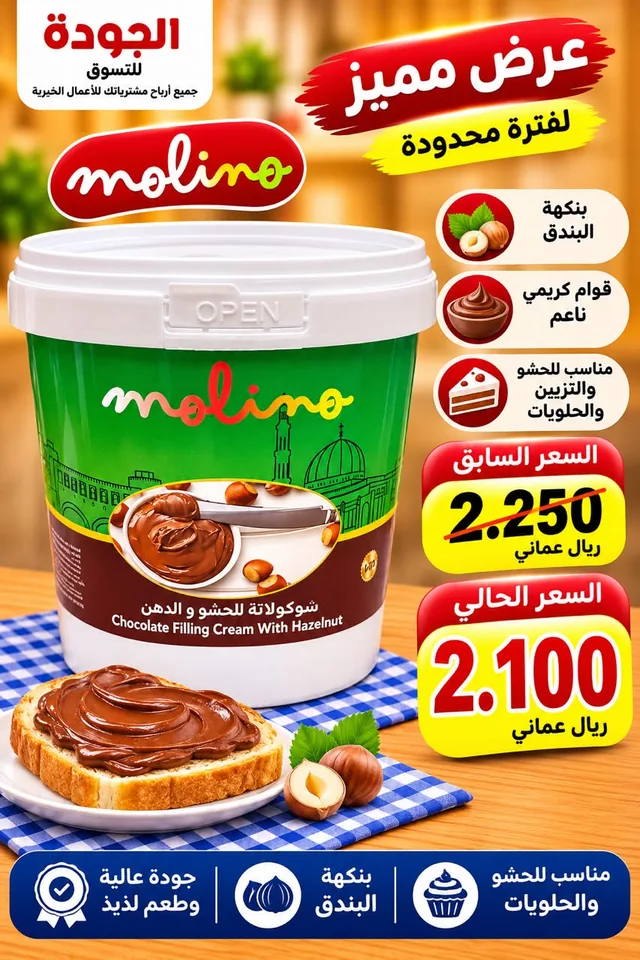
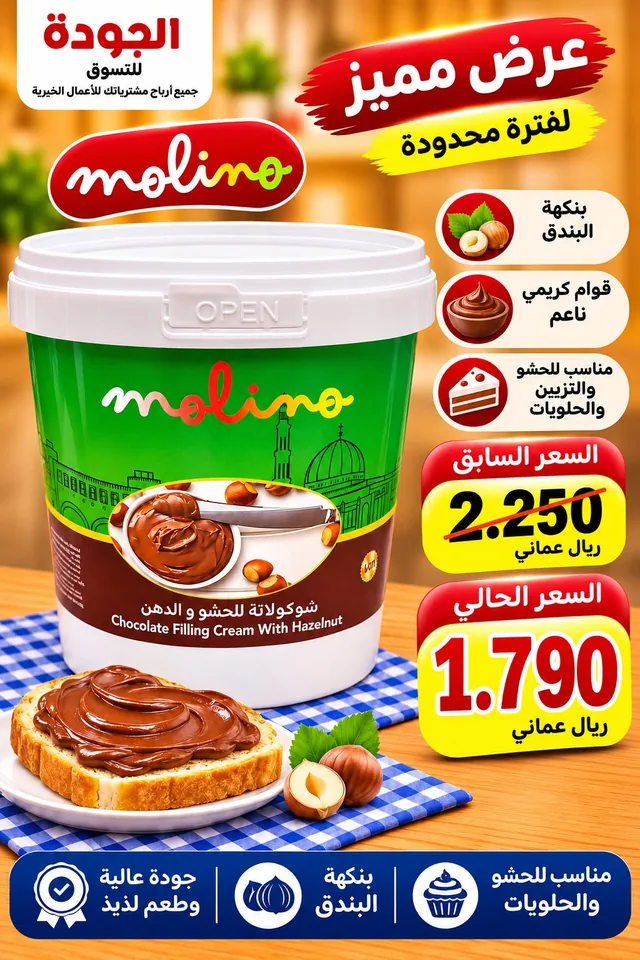
Add 4 new offers (Fancy Sweets, white hazelnut sauce, compound chocolate, Bisco sauce); Molino now 1.790; up to 29%
Claude-Session: https://claude.ai/code/session_01ExWg5wMeSN9mvm3HcH4uGR

diff --git a/ad/index.html b/ad/index.html
@@ -3,22 +3,22 @@
 <head>
 <meta charset="utf-8">
 <meta name="viewport" content="width=device-width,initial-scale=1,viewport-fit=cover">
-<meta name="description" content="عروض مركز الجودة للتسوق في إبراء حتى ٣٠ نوفمبر · خصومات تصل إلى ٢٨٪ · التوصيل 91441292">
+<meta name="description" content="عروض مركز الجودة للتسوق في إبراء حتى ٣٠ نوفمبر · خصومات تصل إلى ٢٩٪ · التوصيل 91441292">
 <meta property="og:type" content="website">
 <meta property="og:site_name" content="الجودة للتسوق">
-<meta property="og:title" content="عروض الجودة · خصومات تصل إلى ٢٨٪ حتى ٣٠ نوفمبر">
+<meta property="og:title" content="عروض الجودة · خصومات تصل إلى ٢٩٪ حتى ٣٠ نوفمبر">
 <meta property="og:description" content="افتح الإعلان وشاهد الوقت المتبقي على نهاية العروض">
 <meta property="og:url" content="https://aljumanfood-source.github.io/jawdamarket/ad/">
-<meta property="og:image" content="https://aljumanfood-source.github.io/jawdamarket/og-2.jpg">
-<meta property="og:image:secure_url" content="https://aljumanfood-source.github.io/jawdamarket/og-2.jpg">
+<meta property="og:image" content="https://aljumanfood-source.github.io/jawdamarket/og-3.jpg">
+<meta property="og:image:secure_url" content="https://aljumanfood-source.github.io/jawdamarket/og-3.jpg">
 <meta property="og:image:type" content="image/jpeg">
-<meta property="og:image:alt" content="عروض الجودة · خصومات تصل إلى ٢٨٪">
+<meta property="og:image:alt" content="عروض الجودة · خصومات تصل إلى ٢٩٪">
 <meta property="og:locale" content="ar_AR">
 <meta property="og:image:width" content="1200">
 <meta property="og:image:height" content="630">
 <meta name="twitter:card" content="summary_large_image">
-<meta name="twitter:image" content="https://aljumanfood-source.github.io/jawdamarket/og-2.jpg">
-<link rel="image_src" href="https://aljumanfood-source.github.io/jawdamarket/og-2.jpg">
+<meta name="twitter:image" content="https://aljumanfood-source.github.io/jawdamarket/og-3.jpg">
+<link rel="image_src" href="https://aljumanfood-source.github.io/jawdamarket/og-3.jpg">
 <meta name="theme-color" content="#8f0718">
 <link rel="icon" href="../img/logo.webp">
 <style>body{margin:0}[hidden]{display:none!important}img{max-width:100%}:root{padding-top:env(safe-area-inset-top,0px);padding-bottom:env(safe-area-inset-bottom,0px)}.poster{cursor:default}.poster:active{transform:none}
@@ -206,14 +206,14 @@ footer{text-align:center;color:var(--muted);font-size:13px;padding-block:6px 20p
 <!-- LANDING / POSTER -->
 <section class="landing" id="cover">
   <div class="landing-in gutter">
-    <div class="ticker" id="ticker"><span class="ticker-l">عروض الجودة حتى ٣٠ نوفمبر</span><span class="track" aria-hidden="true"><img src="../img/t/gqh9105.webp" alt="" width="86" height="129"><img src="../img/t/suroor.webp" alt="" width="86" height="129"><img src="../img/t/gqh9106.webp" alt="" width="86" height="129"><img src="../img/t/khamail.webp" alt="" width="86" height="129"><img src="../img/t/gfh28547.webp" alt="" width="86" height="129"><img src="../img/t/molino.webp" alt="" width="86" height="129"><img src="../img/t/softener.webp" alt="" width="86" height="129"><img src="../img/t/salim.webp" alt="" width="86" height="129"><img src="../img/t/moni.webp" alt="" width="86" height="129"><img src="../img/t/zaydis.webp" alt="" width="86" height="129"><img src="../img/t/diwani.webp" alt="" width="86" height="129"><img src="../img/t/winix.webp" alt="" width="86" height="129"><img src="../img/t/lucky.webp" alt="" width="86" height="129"><img src="../img/t/safwa.webp" alt="" width="86" height="129"><img src="../img/t/shams.webp" alt="" width="86" height="129"><img src="../img/t/anabi.webp" alt="" width="86" height="129"><img src="../img/t/marvel.webp" alt="" width="86" height="129"><img src="../img/t/dettol.webp" alt="" width="86" height="129"><img src="../img/t/rabea1l.webp" alt="" width="86" height="129"><img src="../img/t/rabea.webp" alt="" width="86" height="129"><img src="../img/t/gqh9105.webp" alt="" width="86" height="129"><img src="../img/t/suroor.webp" alt="" width="86" height="129"><img src="../img/t/gqh9106.webp" alt="" width="86" height="129"><img src="../img/t/khamail.webp" alt="" width="86" height="129"><img src="../img/t/gfh28547.webp" alt="" width="86" height="129"><img src="../img/t/molino.webp" alt="" width="86" height="129"><img src="../img/t/softener.webp" alt="" width="86" height="129"><img src="../img/t/salim.webp" alt="" width="86" height="129"><img src="../img/t/moni.webp" alt="" width="86" height="129"><img src="../img/t/zaydis.webp" alt="" width="86" height="129"><img src="../img/t/diwani.webp" alt="" width="86" height="129"><img src="../img/t/winix.webp" alt="" width="86" height="129"><img src="../img/t/lucky.webp" alt="" width="86" height="129"><img src="../img/t/safwa.webp" alt="" width="86" height="129"><img src="../img/t/shams.webp" alt="" width="86" height="129"><img src="../img/t/anabi.webp" alt="" width="86" height="129"><img src="../img/t/marvel.webp" alt="" width="86" height="129"><img src="../img/t/dettol.webp" alt="" width="86" height="129"><img src="../img/t/rabea1l.webp" alt="" width="86" height="129"><img src="../img/t/rabea.webp" alt="" width="86" height="129"></span></div>
+    <div class="ticker" id="ticker"><span class="ticker-l">عروض الجودة حتى ٣٠ نوفمبر</span><span class="track" aria-hidden="true"><img src="../img/t/fancy.webp" alt="" width="86" height="129"><img src="../img/t/whitehaz.webp" alt="" width="86" height="129"><img src="../img/t/compound.webp" alt="" width="86" height="129"><img src="../img/t/bisco.webp" alt="" width="86" height="129"><img src="../img/t/gqh9105.webp" alt="" width="86" height="129"><img src="../img/t/suroor.webp" alt="" width="86" height="129"><img src="../img/t/gqh9106.webp" alt="" width="86" height="129"><img src="../img/t/khamail.webp" alt="" width="86" height="129"><img src="../img/t/gfh28547.webp" alt="" width="86" height="129"><img src="../img/t/molino.webp" alt="" width="86" height="129"><img src="../img/t/softener.webp" alt="" width="86" height="129"><img src="../img/t/salim.webp" alt="" width="86" height="129"><img src="../img/t/moni.webp" alt="" width="86" height="129"><img src="../img/t/zaydis.webp" alt="" width="86" height="129"><img src="../img/t/diwani.webp" alt="" width="86" height="129"><img src="../img/t/winix.webp" alt="" width="86" height="129"><img src="../img/t/lucky.webp" alt="" width="86" height="129"><img src="../img/t/safwa.webp" alt="" width="86" height="129"><img src="../img/t/shams.webp" alt="" width="86" height="129"><img src="../img/t/anabi.webp" alt="" width="86" height="129"><img src="../img/t/marvel.webp" alt="" width="86" height="129"><img src="../img/t/dettol.webp" alt="" width="86" height="129"><img src="../img/t/rabea1l.webp" alt="" width="86" height="129"><img src="../img/t/rabea.webp" alt="" width="86" height="129"><img src="../img/t/fancy.webp" alt="" width="86" height="129"><img src="../img/t/whitehaz.webp" alt="" width="86" height="129"><img src="../img/t/compound.webp" alt="" width="86" height="129"><img src="../img/t/bisco.webp" alt="" width="86" height="129"><img src="../img/t/gqh9105.webp" alt="" width="86" height="129"><img src="../img/t/suroor.webp" alt="" width="86" height="129"><img src="../img/t/gqh9106.webp" alt="" width="86" height="129"><img src="../img/t/khamail.webp" alt="" width="86" height="129"><img src="../img/t/gfh28547.webp" alt="" width="86" height="129"><img src="../img/t/molino.webp" alt="" width="86" height="129"><img src="../img/t/softener.webp" alt="" width="86" height="129"><img src="../img/t/salim.webp" alt="" width="86" height="129"><img src="../img/t/moni.webp" alt="" width="86" height="129"><img src="../img/t/zaydis.webp" alt="" width="86" height="129"><img src="../img/t/diwani.webp" alt="" width="86" height="129"><img src="../img/t/winix.webp" alt="" width="86" height="129"><img src="../img/t/lucky.webp" alt="" width="86" height="129"><img src="../img/t/safwa.webp" alt="" width="86" height="129"><img src="../img/t/shams.webp" alt="" width="86" height="129"><img src="../img/t/anabi.webp" alt="" width="86" height="129"><img src="../img/t/marvel.webp" alt="" width="86" height="129"><img src="../img/t/dettol.webp" alt="" width="86" height="129"><img src="../img/t/rabea1l.webp" alt="" width="86" height="129"><img src="../img/t/rabea.webp" alt="" width="86" height="129"></span></div>
     <button class="poster" id="poster" type="button" aria-label="تصفّح عروض الجودة">
       <canvas id="rays" aria-hidden="true"></canvas>
       <span class="p-in">
         <span class="p-logo"><img src="../img/logo.webp" alt="الجودة للتسوق"></span>
         <span id="live" style="display:contents">
           <span class="ribbon">عروض مميزة لفترة محدودة</span>
-          <span class="head"><span class="l1">خصومات تصل إلى</span><span class="pct">٢٨٪</span></span>
+          <span class="head"><span class="l1">خصومات تصل إلى</span><span class="pct">٢٩٪</span></span>
           <span class="count count-top"><span class="count-l" id="countL">ينتهي العرض بعد</span><span class="tiles" id="tiles"></span></span>
           <span class="pile" aria-hidden="true">
             <img class="f2" src="../img/p/suroor.webp" alt="">
@@ -284,7 +284,11 @@ const P = [
   {id:'suroor',  c:'food', n:'حليب مبخر سرور', s:'كرتون ٤٨ حبة × ١٧٠ غ', o:7.850, v:5.990},
   {id:'khamail', c:'food', n:'جبنة قابلة للدهن الخمائل', s:'٢ × ٥٠٠ غ', o:2.500, v:2.090},
   {id:'salim',   c:'food', n:'جبنة مثلثات سالم', s:'٨ قطع', o:1.100, v:0.900},
-  {id:'molino',  c:'food', n:'شوكولاتة مولينو بالبندق', s:'للحشو والدهن والحلويات', o:2.250, v:2.100},
+  {id:'fancy',   c:'food', n:'شوكولاتة فانسي سويتس', s:'حبيبات شوكولاتة · أشكال متنوعة', o:2.800, v:1.990},
+  {id:'whitehaz',c:'food', n:'صوص البندق الأبيض مولينو', s:'للحلويات والمعجنات', o:2.830, v:2.090},
+  {id:'compound',c:'food', n:'شوكولاتة مركبة للتغطية', s:'٢٫٥ كجم · حليب أو داكن أو أبيض', o:5.150, v:3.990},
+  {id:'bisco',   c:'food', n:'صوص بسكو مولينو', s:'١ كجم', o:3.390, v:2.690},
+  {id:'molino',  c:'food', n:'شوكولاتة مولينو بالبندق', s:'للحشو والدهن والحلويات', o:2.250, v:1.790},
   {id:'diwani',  c:'food', n:'مركز الفاكهة الملكي الديواني', s:'٧١٠ مل · فواكه مشكلة', o:1.100, v:0.990},
   {id:'safwa',   c:'food', n:'مكرونة الصفوة بيني', s:'جاهزة خلال ٨ دقائق', o:0.990, v:0.890},
   {id:'anabi',   c:'food', n:'مكرونة العنابي فيرميلي', s:'شعيرية', o:1.050, v:0.990},

diff --git a/index.html b/index.html
@@ -3,22 +3,22 @@
 <head>
 <meta charset="utf-8">
 <meta name="viewport" content="width=device-width,initial-scale=1,viewport-fit=cover">
-<meta name="description" content="عروض مركز الجودة للتسوق في إبراء حتى ٣٠ نوفمبر · خصومات تصل إلى ٢٨٪ · التوصيل 91441292">
+<meta name="description" content="عروض مركز الجودة للتسوق في إبراء حتى ٣٠ نوفمبر · خصومات تصل إلى ٢٩٪ · التوصيل 91441292">
 <meta property="og:type" content="website">
 <meta property="og:site_name" content="الجودة للتسوق">
-<meta property="og:title" content="عروض الجودة · خصومات تصل إلى ٢٨٪ حتى ٣٠ نوفمبر">
+<meta property="og:title" content="عروض الجودة · خصومات تصل إلى ٢٩٪ حتى ٣٠ نوفمبر">
 <meta property="og:description" content="تصفّح ٢٠ عرضاً واطلب التوصيل على واتساب 91441292">
 <meta property="og:url" content="https://aljumanfood-source.github.io/jawdamarket/">
-<meta property="og:image" content="https://aljumanfood-source.github.io/jawdamarket/og-2.jpg">
-<meta property="og:image:secure_url" content="https://aljumanfood-source.github.io/jawdamarket/og-2.jpg">
+<meta property="og:image" content="https://aljumanfood-source.github.io/jawdamarket/og-3.jpg">
+<meta property="og:image:secure_url" content="https://aljumanfood-source.github.io/jawdamarket/og-3.jpg">
 <meta property="og:image:type" content="image/jpeg">
-<meta property="og:image:alt" content="عروض الجودة · خصومات تصل إلى ٢٨٪">
+<meta property="og:image:alt" content="عروض الجودة · خصومات تصل إلى ٢٩٪">
 <meta property="og:locale" content="ar_AR">
 <meta property="og:image:width" content="1200">
 <meta property="og:image:height" content="630">
 <meta name="twitter:card" content="summary_large_image">
-<meta name="twitter:image" content="https://aljumanfood-source.github.io/jawdamarket/og-2.jpg">
-<link rel="image_src" href="https://aljumanfood-source.github.io/jawdamarket/og-2.jpg">
+<meta name="twitter:image" content="https://aljumanfood-source.github.io/jawdamarket/og-3.jpg">
+<link rel="image_src" href="https://aljumanfood-source.github.io/jawdamarket/og-3.jpg">
 <meta name="theme-color" content="#8f0718">
 <link rel="icon" href="img/logo.webp">
 <style>body{margin:0}[hidden]{display:none!important}img{max-width:100%}:root{padding-top:env(safe-area-inset-top,0px);padding-bottom:env(safe-area-inset-bottom,0px)}.stage.ph{aspect-ratio:2/3;border-radius:12px;background:#fff;border:1px solid var(--line)}
@@ -204,14 +204,14 @@ footer{text-align:center;color:var(--muted);font-size:13px;padding-block:6px 20p
 <!-- LANDING / POSTER -->
 <section class="landing" id="cover">
   <div class="landing-in gutter">
-    <button class="ticker" id="ticker" type="button" aria-label="تصفّح العروض"><span class="ticker-l">عروض الجودة · اضغط على أي منتج</span><span class="track" aria-hidden="true"><img src="img/t/gqh9105.webp" alt="" width="86" height="129"><img src="img/t/suroor.webp" alt="" width="86" height="129"><img src="img/t/gqh9106.webp" alt="" width="86" height="129"><img src="img/t/khamail.webp" alt="" width="86" height="129"><img src="img/t/gfh28547.webp" alt="" width="86" height="129"><img src="img/t/molino.webp" alt="" width="86" height="129"><img src="img/t/softener.webp" alt="" width="86" height="129"><img src="img/t/salim.webp" alt="" width="86" height="129"><img src="img/t/moni.webp" alt="" width="86" height="129"><img src="img/t/zaydis.webp" alt="" width="86" height="129"><img src="img/t/diwani.webp" alt="" width="86" height="129"><img src="img/t/winix.webp" alt="" width="86" height="129"><img src="img/t/lucky.webp" alt="" width="86" height="129"><img src="img/t/safwa.webp" alt="" width="86" height="129"><img src="img/t/shams.webp" alt="" width="86" height="129"><img src="img/t/anabi.webp" alt="" width="86" height="129"><img src="img/t/marvel.webp" alt="" width="86" height="129"><img src="img/t/dettol.webp" alt="" width="86" height="129"><img src="img/t/rabea1l.webp" alt="" width="86" height="129"><img src="img/t/rabea.webp" alt="" width="86" height="129"><img src="img/t/gqh9105.webp" alt="" width="86" height="129"><img src="img/t/suroor.webp" alt="" width="86" height="129"><img src="img/t/gqh9106.webp" alt="" width="86" height="129"><img src="img/t/khamail.webp" alt="" width="86" height="129"><img src="img/t/gfh28547.webp" alt="" width="86" height="129"><img src="img/t/molino.webp" alt="" width="86" height="129"><img src="img/t/softener.webp" alt="" width="86" height="129"><img src="img/t/salim.webp" alt="" width="86" height="129"><img src="img/t/moni.webp" alt="" width="86" height="129"><img src="img/t/zaydis.webp" alt="" width="86" height="129"><img src="img/t/diwani.webp" alt="" width="86" height="129"><img src="img/t/winix.webp" alt="" width="86" height="129"><img src="img/t/lucky.webp" alt="" width="86" height="129"><img src="img/t/safwa.webp" alt="" width="86" height="129"><img src="img/t/shams.webp" alt="" width="86" height="129"><img src="img/t/anabi.webp" alt="" width="86" height="129"><img src="img/t/marvel.webp" alt="" width="86" height="129"><img src="img/t/dettol.webp" alt="" width="86" height="129"><img src="img/t/rabea1l.webp" alt="" width="86" height="129"><img src="img/t/rabea.webp" alt="" width="86" height="129"></span></button>
+    <button class="ticker" id="ticker" type="button" aria-label="تصفّح العروض"><span class="ticker-l">عروض الجودة · اضغط على أي منتج</span><span class="track" aria-hidden="true"><img src="img/t/fancy.webp" alt="" width="86" height="129"><img src="img/t/whitehaz.webp" alt="" width="86" height="129"><img src="img/t/compound.webp" alt="" width="86" height="129"><img src="img/t/bisco.webp" alt="" width="86" height="129"><img src="img/t/gqh9105.webp" alt="" width="86" height="129"><img src="img/t/suroor.webp" alt="" width="86" height="129"><img src="img/t/gqh9106.webp" alt="" width="86" height="129"><img src="img/t/khamail.webp" alt="" width="86" height="129"><img src="img/t/gfh28547.webp" alt="" width="86" height="129"><img src="img/t/molino.webp" alt="" width="86" height="129"><img src="img/t/softener.webp" alt="" width="86" height="129"><img src="img/t/salim.webp" alt="" width="86" height="129"><img src="img/t/moni.webp" alt="" width="86" height="129"><img src="img/t/zaydis.webp" alt="" width="86" height="129"><img src="img/t/diwani.webp" alt="" width="86" height="129"><img src="img/t/winix.webp" alt="" width="86" height="129"><img src="img/t/lucky.webp" alt="" width="86" height="129"><img src="img/t/safwa.webp" alt="" width="86" height="129"><img src="img/t/shams.webp" alt="" width="86" height="129"><img src="img/t/anabi.webp" alt="" width="86" height="129"><img src="img/t/marvel.webp" alt="" width="86" height="129"><img src="img/t/dettol.webp" alt="" width="86" height="129"><img src="img/t/rabea1l.webp" alt="" width="86" height="129"><img src="img/t/rabea.webp" alt="" width="86" height="129"><img src="img/t/fancy.webp" alt="" width="86" height="129"><img src="img/t/whitehaz.webp" alt="" width="86" height="129"><img src="img/t/compound.webp" alt="" width="86" height="129"><img src="img/t/bisco.webp" alt="" width="86" height="129"><img src="img/t/gqh9105.webp" alt="" width="86" height="129"><img src="img/t/suroor.webp" alt="" width="86" height="129"><img src="img/t/gqh9106.webp" alt="" width="86" height="129"><img src="img/t/khamail.webp" alt="" width="86" height="129"><img src="img/t/gfh28547.webp" alt="" width="86" height="129"><img src="img/t/molino.webp" alt="" width="86" height="129"><img src="img/t/softener.webp" alt="" width="86" height="129"><img src="img/t/salim.webp" alt="" width="86" height="129"><img src="img/t/moni.webp" alt="" width="86" height="129"><img src="img/t/zaydis.webp" alt="" width="86" height="129"><img src="img/t/diwani.webp" alt="" width="86" height="129"><img src="img/t/winix.webp" alt="" width="86" height="129"><img src="img/t/lucky.webp" alt="" width="86" height="129"><img src="img/t/safwa.webp" alt="" width="86" height="129"><img src="img/t/shams.webp" alt="" width="86" height="129"><img src="img/t/anabi.webp" alt="" width="86" height="129"><img src="img/t/marvel.webp" alt="" width="86" height="129"><img src="img/t/dettol.webp" alt="" width="86" height="129"><img src="img/t/rabea1l.webp" alt="" width="86" height="129"><img src="img/t/rabea.webp" alt="" width="86" height="129"></span></button>
     <button class="poster" id="poster" type="button" aria-label="تصفّح عروض الجودة">
       <canvas id="rays" aria-hidden="true"></canvas>
       <span class="p-in">
         <span class="p-logo"><img src="img/logo.webp" alt="الجودة للتسوق"></span>
         <span id="live" style="display:contents">
           <span class="ribbon">عروض مميزة لفترة محدودة</span>
-          <span class="head"><span class="l1">خصومات تصل إلى</span><span class="pct">٢٨٪</span></span>
+          <span class="head"><span class="l1">خصومات تصل إلى</span><span class="pct">٢٩٪</span></span>
           <span class="count count-top"><span class="count-l" id="countL">ينتهي العرض بعد</span><span class="tiles" id="tiles"></span></span>
           <span class="pile" aria-hidden="true">
             <img class="f2" src="img/p/suroor.webp" alt="">
@@ -283,7 +283,11 @@ const P = [
   {id:'suroor',  c:'food', n:'حليب مبخر سرور', s:'كرتون ٤٨ حبة × ١٧٠ غ', o:7.850, v:5.990},
   {id:'khamail', c:'food', n:'جبنة قابلة للدهن الخمائل', s:'٢ × ٥٠٠ غ', o:2.500, v:2.090},
   {id:'salim',   c:'food', n:'جبنة مثلثات سالم', s:'٨ قطع', o:1.100, v:0.900},
-  {id:'molino',  c:'food', n:'شوكولاتة مولينو بالبندق', s:'للحشو والدهن والحلويات', o:2.250, v:2.100},
+  {id:'fancy',   c:'food', n:'شوكولاتة فانسي سويتس', s:'حبيبات شوكولاتة · أشكال متنوعة', o:2.800, v:1.990},
+  {id:'whitehaz',c:'food', n:'صوص البندق الأبيض مولينو', s:'للحلويات والمعجنات', o:2.830, v:2.090},
+  {id:'compound',c:'food', n:'شوكولاتة مركبة للتغطية', s:'٢٫٥ كجم · حليب أو داكن أو أبيض', o:5.150, v:3.990},
+  {id:'bisco',   c:'food', n:'صوص بسكو مولينو', s:'١ كجم', o:3.390, v:2.690},
+  {id:'molino',  c:'food', n:'شوكولاتة مولينو بالبندق', s:'للحشو والدهن والحلويات', o:2.250, v:1.790},
   {id:'diwani',  c:'food', n:'مركز الفاكهة الملكي الديواني', s:'٧١٠ مل · فواكه مشكلة', o:1.100, v:0.990},
   {id:'safwa',   c:'food', n:'مكرونة الصفوة بيني', s:'جاهزة خلال ٨ دقائق', o:0.990, v:0.890},
   {id:'anabi',   c:'food', n:'مكرونة العنابي فيرميلي', s:'شعيرية', o:1.050, v:0.990},
